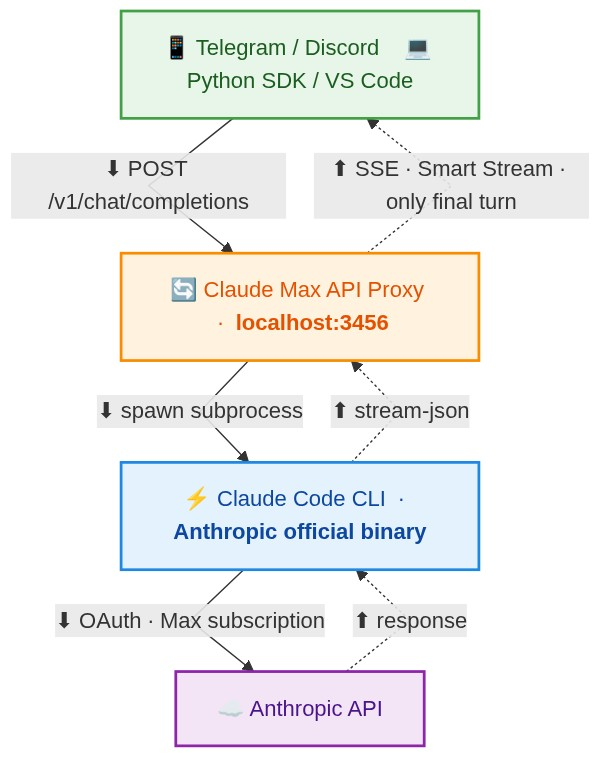
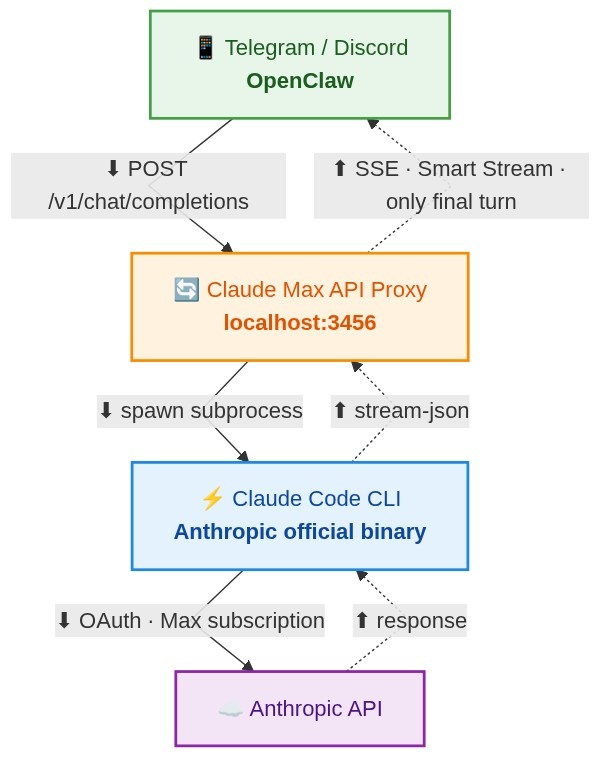
Focus README on OpenClaw, remove other tool integrations
This proxy is designed for OpenClaw. Removed Python SDK,
Continue.dev, and generic OpenAI client sections. Updated
architecture diagram to show OpenClaw as the sole frontend.

diff --git a/README.zh-TW.md b/README.zh-TW.md
@@ -2,13 +2,13 @@
 
 **[English](README.md) | 繁體中文**
 
-**把 Opus 4.6 變成你的日常 AI 助手 — 透過 Telegram、Discord 或任何 OpenAI 相容客戶端 — 用你每月 $200 的 Claude Max 訂閱驅動。**
+**把 Opus 4.6 變成你的日常 AI 助手 — 透過 Telegram 和 Discord — 用你每月 $200 的 Claude Max 訂閱搭配 [OpenClaw](https://openclaw.dev) 驅動。**
 
 ## 為什麼做這個
 
 Opus 4.6 是目前最好的對話 AI 模型。它有個性、推理能力超強、講話直接像個靠譜的工程師直男，但關鍵時刻又會給你足夠的情緒價值。問題是？透過 Anthropic API 按量計費，重度使用一小時就能燒掉 $10+。Claude Max 每月 $200 吃到飽 — 但只能透過網頁 UI 和 Claude Code CLI 使用。
 
-這個 Proxy 打通了這道牆。它把 Claude Code CLI 包裝成本地 HTTP 伺服器，對外說 OpenAI 的語言。任何支援 OpenAI 的客戶端 — 聊天機器人、自動化平台、VS Code 外掛 — 都能直接用你的 Max 訂閱。
+這個 Proxy 打通了這道牆。它把 Claude Code CLI 包裝成本地 HTTP 伺服器，對外說 OpenAI 的語言，專為搭配 [OpenClaw](https://openclaw.dev) 作為 Telegram/Discord 機器人前端而設計。
 
 ## 為什麼不直接用 Session Token？
 
@@ -167,11 +167,9 @@ launchctl load ~/Library/LaunchAgents/com.claude-max-api.plist
 
 支援完整模型家族與版本鎖定（例如 `claude-opus-4-5-20251101`）。
 
-## 搭配常用工具
+## OpenClaw 整合
 
-### OpenClaw（Telegram / Discord Bot）
-
-在 `openclaw.json` 中新增為模型提供者：
+在你的 `openclaw.json` 中新增為模型提供者：
 ```json
 {
   "models": {
@@ -186,43 +184,7 @@ launchctl load ~/Library/LaunchAgents/com.claude-max-api.plist
 }
 ```
 
-### Python（OpenAI SDK）
-
-```python
-from openai import OpenAI
-
-client = OpenAI(
-    base_url="http://localhost:3456/v1",
-    api_key="not-needed"
-)
-
-response = client.chat.completions.create(
-    model="claude-sonnet-4",
-    messages=[{"role": "user", "content": "你好！"}],
-    stream=True
-)
-
-for chunk in response:
-    print(chunk.choices[0].delta.content or "", end="")
-```
-
-### Continue.dev（VS Code）
-
-```json
-{
-  "models": [{
-    "title": "Claude (Max)",
-    "provider": "openai",
-    "model": "claude-sonnet-4",
-    "apiBase": "http://localhost:3456/v1",
-    "apiKey": "not-needed"
-  }]
-}
-```
-
-### 任何 OpenAI 相容客戶端
-
-指向 `http://localhost:3456/v1`，API key 隨意填。Proxy 會忽略 key，直接使用你的 Claude CLI 認證。
+完整設定請參考 [OpenClaw 文件](https://openclaw.dev)。
 
 ## API 端點
 

diff --git a/README.md b/README.md
@@ -2,13 +2,13 @@
 
 **English | [繁體中文](README.zh-TW.md)**
 
-**Use Opus 4.6 as your daily AI assistant — through Telegram, Discord, or any OpenAI-compatible client — powered by your $200/month Claude Max subscription.**
+**Use Opus 4.6 as your daily AI assistant — through Telegram and Discord — powered by your $200/month Claude Max subscription and [OpenClaw](https://openclaw.dev).**
 
 ## Why This Exists
 
 Opus 4.6 is the best conversational AI model available today. It has personality, strong reasoning, and a directness that no other model matches. The problem? Using it through the Anthropic API burns $10+/hour on heavy workloads. Claude Max gives you unlimited Opus for $200/month flat — but only through the web UI and Claude Code CLI.
 
-This proxy bridges the gap. It wraps Claude Code CLI as a local HTTP server that speaks the OpenAI API format. Any client that supports OpenAI — chatbots, automation platforms, VS Code extensions — can now use your Max subscription directly.
+This proxy bridges the gap. It wraps Claude Code CLI as a local HTTP server that speaks the OpenAI API format, designed to work with [OpenClaw](https://openclaw.dev) as the Telegram/Discord bot frontend.
 
 ## Why Not Just Use Session Tokens?
 
@@ -167,11 +167,9 @@ launchctl load ~/Library/LaunchAgents/com.claude-max-api.plist
 
 Full model family support with version pinning (e.g. `claude-opus-4-5-20251101`).
 
-## Use With Popular Tools
+## OpenClaw Integration
 
-### OpenClaw (Telegram / Discord Bot)
-
-Add as a model provider in `openclaw.json`:
+Add as a model provider in your `openclaw.json`:
 ```json
 {
   "models": {
@@ -186,43 +184,7 @@ Add as a model provider in `openclaw.json`:
 }
 ```
 
-### Python (OpenAI SDK)
-
-```python
-from openai import OpenAI
-
-client = OpenAI(
-    base_url="http://localhost:3456/v1",
-    api_key="not-needed"
-)
-
-response = client.chat.completions.create(
-    model="claude-sonnet-4",
-    messages=[{"role": "user", "content": "Hello!"}],
-    stream=True
-)
-
-for chunk in response:
-    print(chunk.choices[0].delta.content or "", end="")
-```
-
-### Continue.dev (VS Code)
-
-```json
-{
-  "models": [{
-    "title": "Claude (Max)",
-    "provider": "openai",
-    "model": "claude-sonnet-4",
-    "apiBase": "http://localhost:3456/v1",
-    "apiKey": "not-needed"
-  }]
-}
-```
-
-### Any OpenAI-Compatible Client
-
-Point it to `http://localhost:3456/v1` with any API key. The proxy ignores the key and uses your Claude CLI authentication.
+See the [OpenClaw documentation](https://openclaw.dev) for full setup instructions.
 
 ## API Endpoints
 
